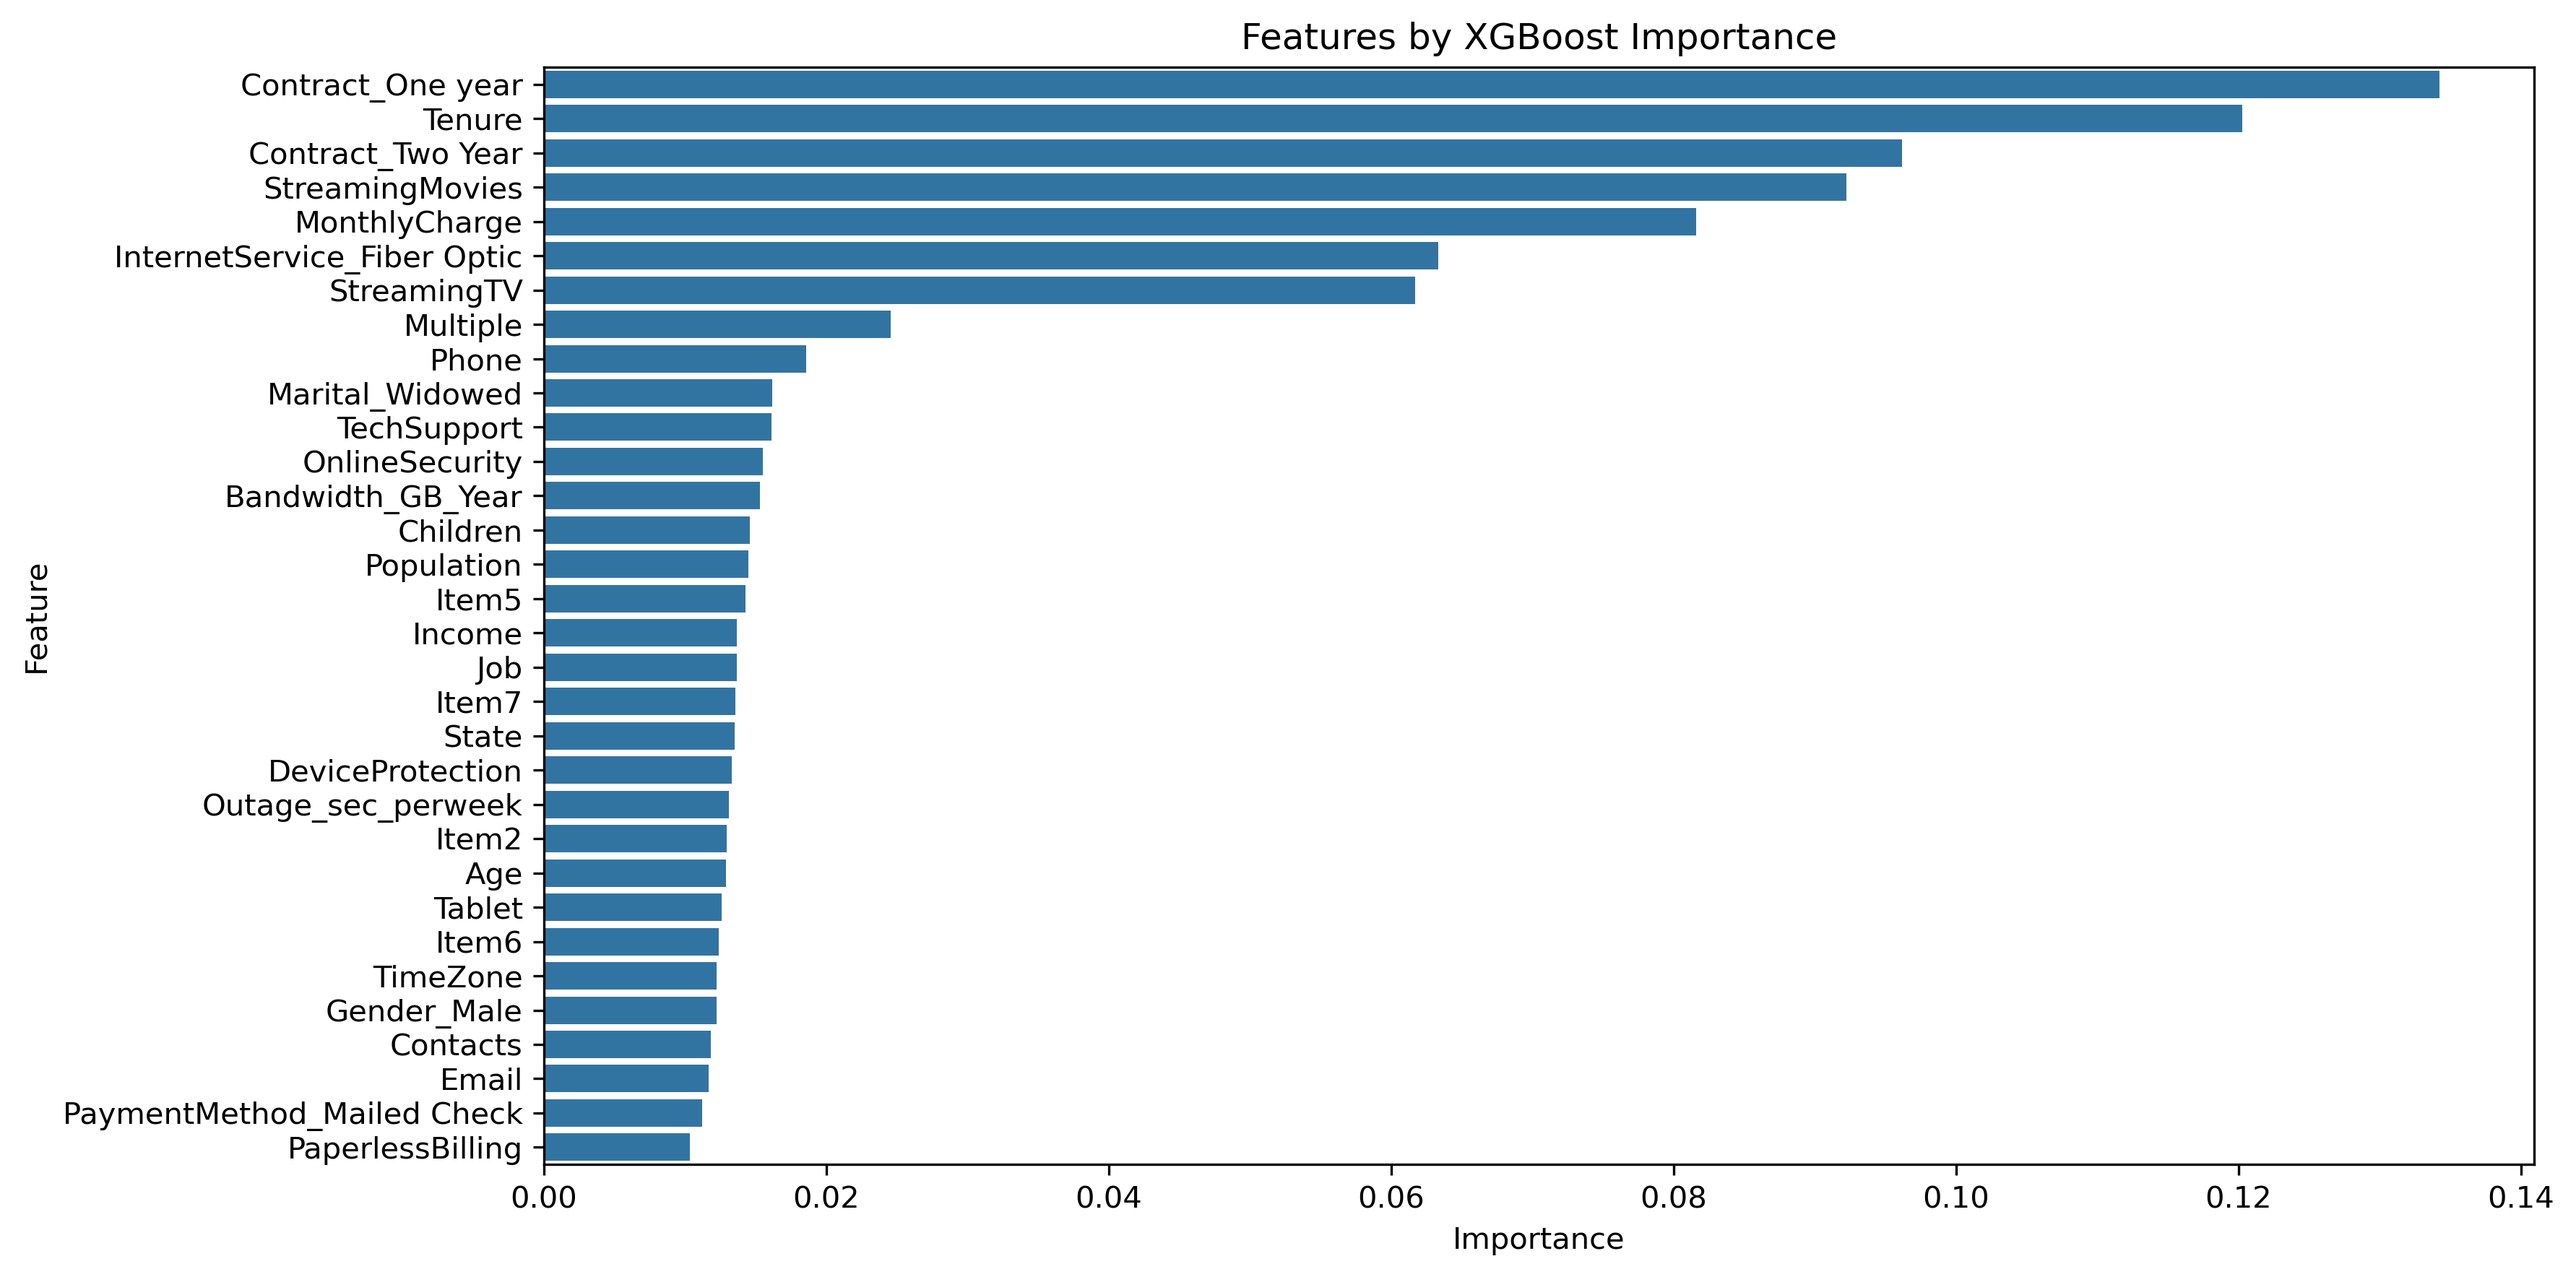
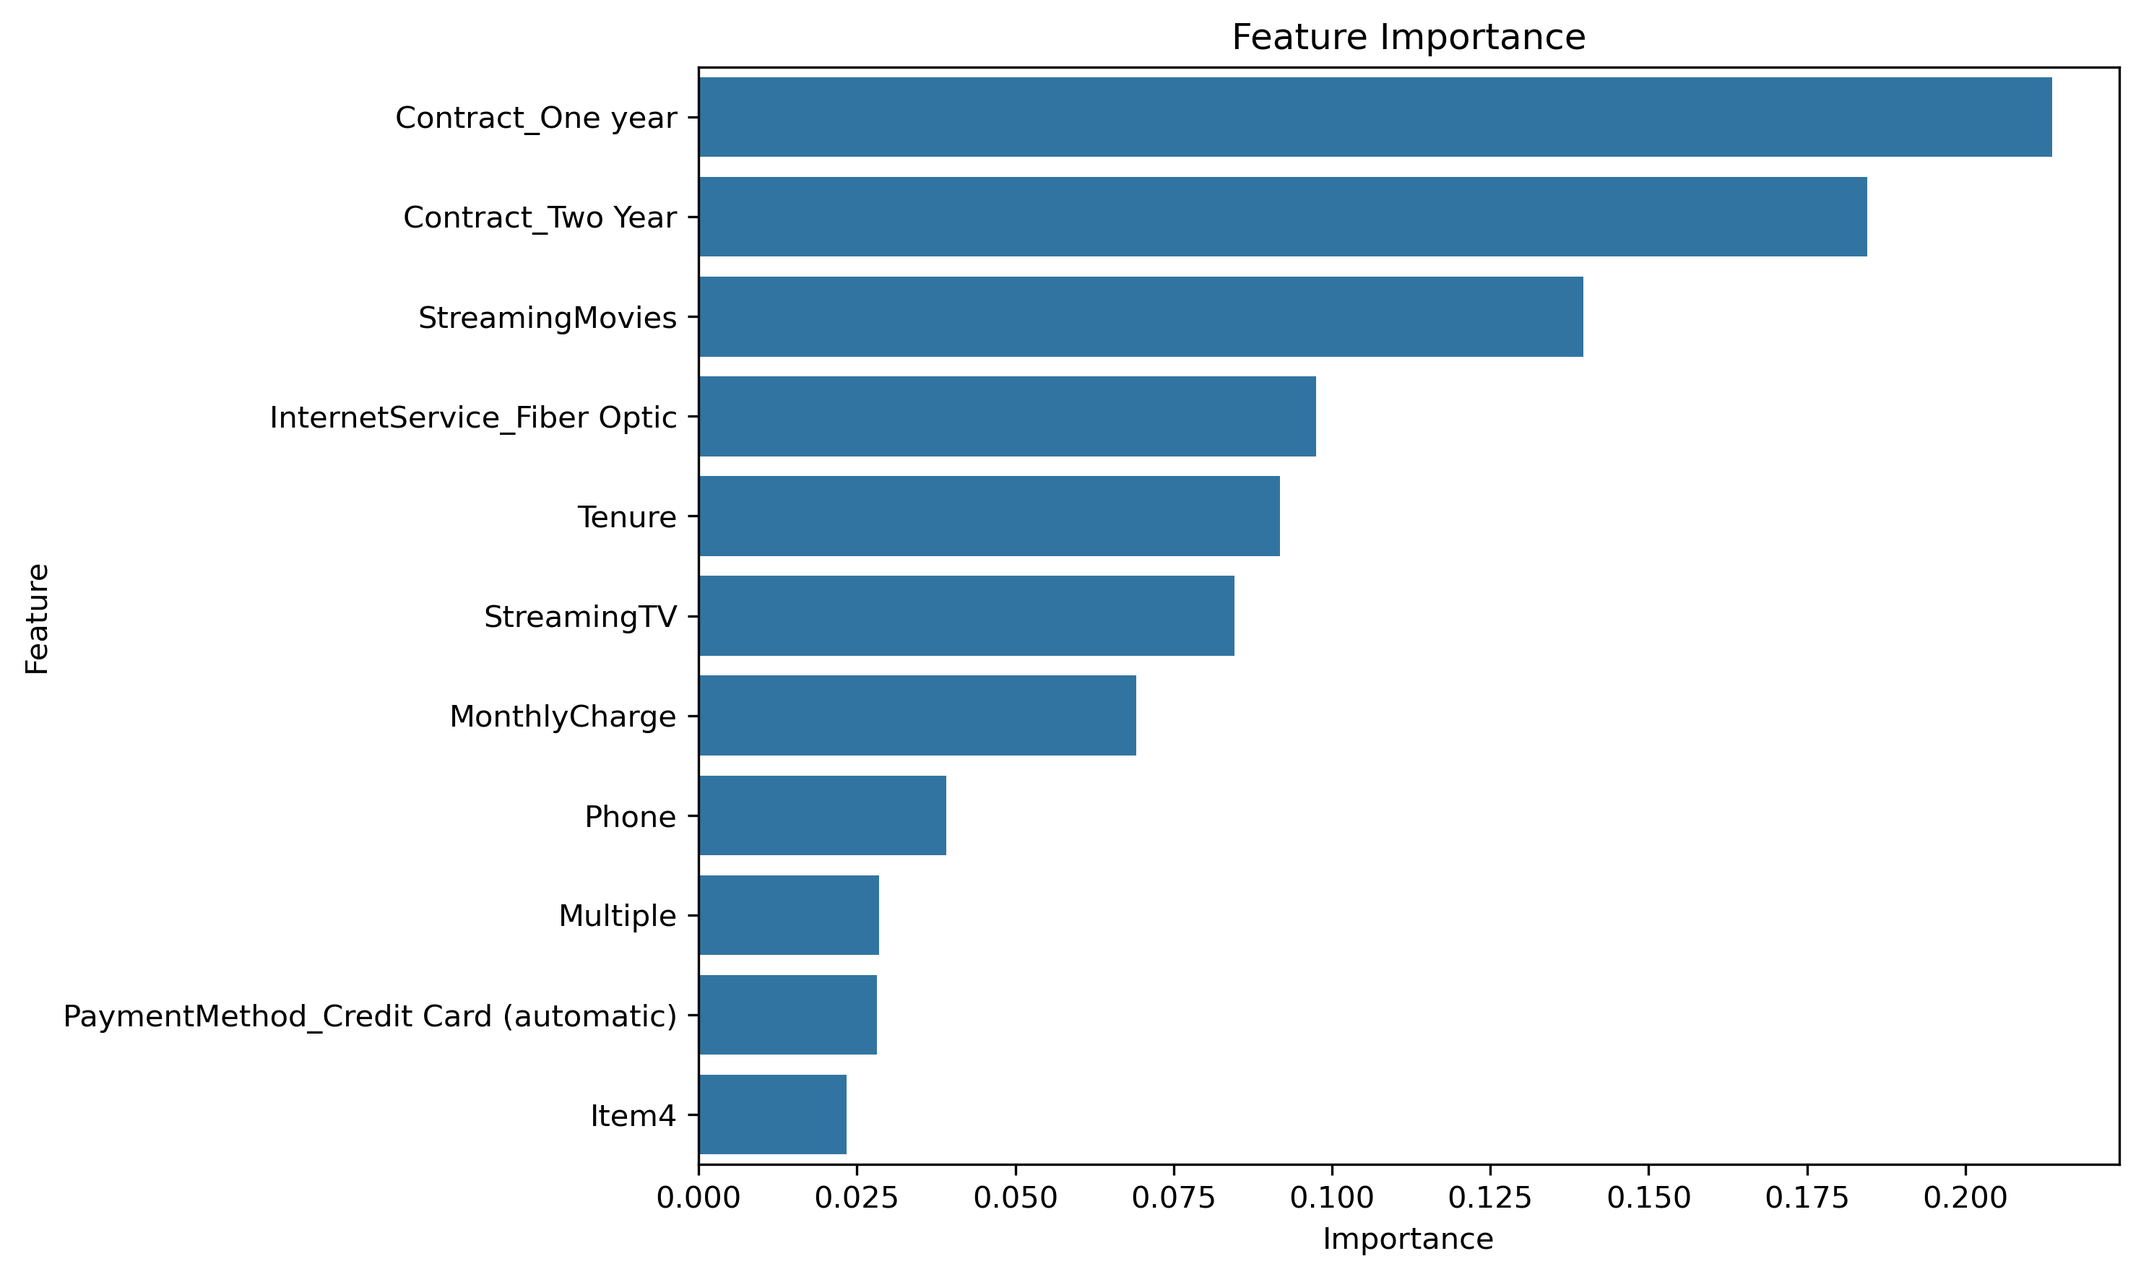
XGBoost implemented with default parameters

diff --git a/churn_classification.py b/churn_classification.py
@@ -1,0 +1,93 @@
+import pandas as pd
+import numpy as np
+from sklearn.model_selection import train_test_split
+from sklearn.metrics import classification_report, confusion_matrix
+from xgboost import XGBClassifier
+import seaborn as sns
+import matplotlib.pyplot as plt
+
+def load_and_prepare_data(filepath='churn_clean.csv'):
+    """
+    Load the data and select only the chosen features
+    """
+    # Selected features from RFECV
+    selected_features = [
+        'Tenure', 'MonthlyCharge', 'StreamingMovies', 'StreamingTV',
+        'Contract_Two Year', 'Contract_One year', 'Multiple',
+        'InternetService_Fiber Optic', 'Item4', 'Phone',
+        'PaymentMethod_Credit Card (automatic)', 'Churn'
+    ]
+    
+    # Load preprocessed data
+    df = pd.read_csv(filepath)
+    
+    # Convert boolean columns to int
+    bool_columns = ['StreamingMovies', 'StreamingTV', 'Multiple', 'Phone', 'Churn']
+    for col in bool_columns:
+        df[col] = (df[col] == 'Yes').astype(int)
+    
+    # Create necessary dummy variables
+    df = pd.get_dummies(df, columns=['Contract', 'InternetService', 'PaymentMethod'])
+    
+    # Select only the features we want
+    df_selected = df[selected_features]
+    
+    return df_selected
+
+def train_model():
+    """
+    Train and evaluate the XGBoost model
+    """
+    # Load and prepare data
+    print("Loading and preparing data...")
+    df = load_and_prepare_data()
+    
+    # Split features and target
+    X = df.drop('Churn', axis=1)
+    y = df['Churn']
+    
+    # Split into train and test sets
+    print("Splitting into train and test sets...")
+    X_train, X_test, y_train, y_test = train_test_split(
+        X, y, test_size=0.2, random_state=42
+    )
+    
+    # Initialize and train model
+    print("Training XGBoost model...")
+    model = XGBClassifier(
+        random_state=42,
+        n_jobs=-1,
+        use_label_encoder=False,
+        eval_metric='logloss'
+    )
+    model.fit(X_train, y_train)
+    
+    # Make predictions
+    print("Making predictions...")
+    y_pred = model.predict(X_test)
+    
+    # Print classification report
+    print("\nClassification Report:")
+    print(classification_report(y_test, y_pred))
+    
+    # Plot feature importance
+    plt.figure(figsize=(10, 6))
+    importance_df = pd.DataFrame({
+        'Feature': X.columns,
+        'Importance': model.feature_importances_
+    })
+    importance_df = importance_df.sort_values('Importance', ascending=False)
+    
+    sns.barplot(data=importance_df, x='Importance', y='Feature')
+    plt.title('Feature Importance')
+    plt.tight_layout()
+    plt.savefig('feature_importance.png', dpi=300, bbox_inches='tight')
+    plt.close()
+    
+    return model, importance_df
+
+if __name__ == "__main__":
+    model, importance_df = train_model()
+    print("\nFeature Importance:")
+    print(importance_df)
+    print("\nModel training complete. Visualizations saved as 'confusion_matrix.png' and 'feature_importance.png'")

diff --git a/churn_preprocessing.py b/churn_preprocessing.py
@@ -76,7 +76,7 @@ def analyze_feature_importance(X, y):
             n_estimators=100
         ),
         step=5,
-        cv=3,
+        cv=10,
         scoring='accuracy',
         n_jobs=-1,
         min_features_to_select=10
